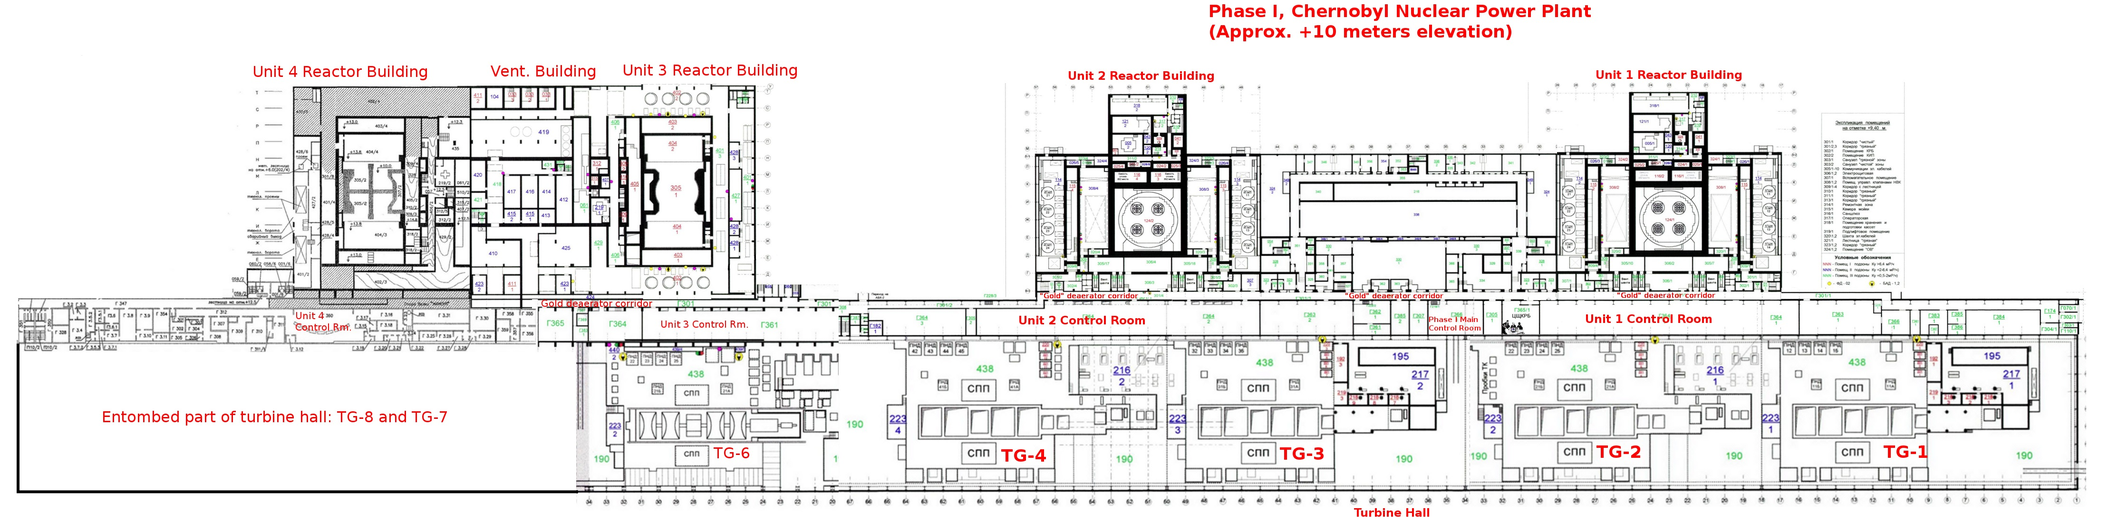
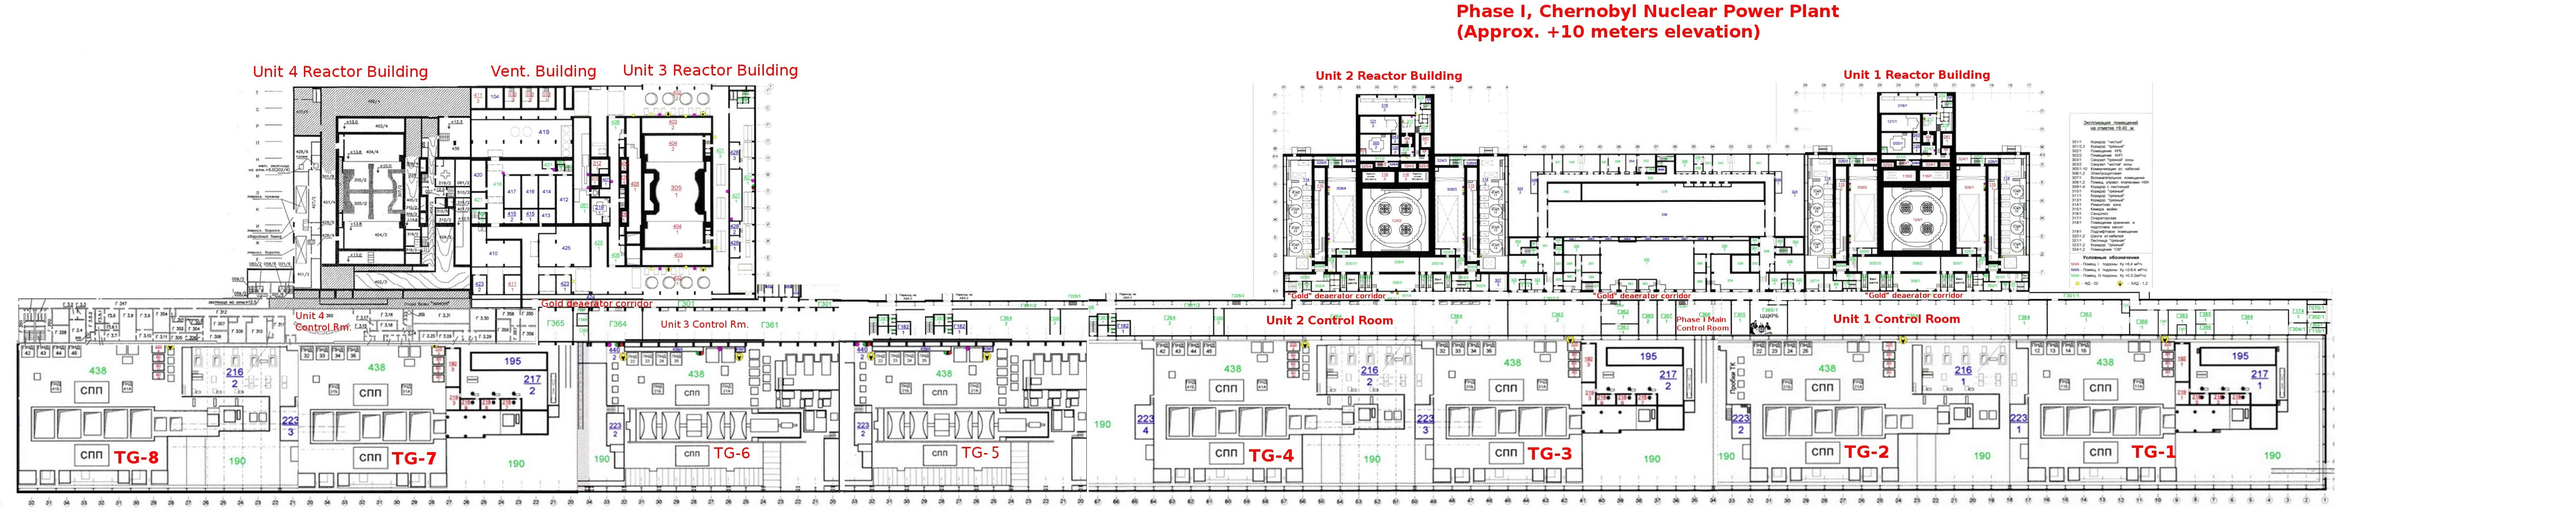
Added turbine 4 to blue print
Also added steam pipes and electricity pipes for aesthetics, fixed a lot
of things too

Changed region(s): [[0.0, 0.1219, 0.9955, 0.9749], [0.56, 0.0, 0.7466, 0.0914]]

diff --git a/Nuclear/src/objects/Pipe.java b/Nuclear/src/objects/Pipe.java
@@ -1,0 +1,99 @@
+package objects;
+
+import java.awt.Color;
+import java.awt.Graphics2D;
+import java.awt.Rectangle;
+import java.awt.Shape;
+import java.awt.event.MouseEvent;
+import java.awt.geom.AffineTransform;
+
+import logic.Integrator;
+
+public class Pipe extends GameObject{
+	int speed=5;
+	int increment_time = 25;
+	int position = 0;
+	public static enum Orientation{
+		VERTICAL, HORIZONTAL //This will dicate whether to draw the pipe horizontally or vertically (instead of entering points)
+	}
+	Color color = new Color(255, 255, 0);
+	Orientation or;
+	private void count(){//This method updates the particle position on the pipe
+		position+=speed;
+		if(speed > 0){
+			if(position > 20)position = 0;
+		}
+		if(speed < 0){
+			if(position < -20)position = 0;
+		}
+	}
+	int width;
+	long lastTime = 0;
+	public Pipe(int x1, int y1, Orientation or, int length, int width){
+		if(length < 0){
+			length *= -1;
+			speed *= -1;
+		}
+		x = x1;
+		y = y1;
+		if(or == Orientation.VERTICAL){//Generates x and y depending on orientation
+			xSize = width;
+			ySize = length;
+		}else if(or == Orientation.HORIZONTAL){
+			xSize = length;
+			ySize = width;
+		}
+		this.or = or;
+		this.width = width;
+		bounds = new Rectangle(x, y, xSize, ySize);//Creates rectangle
+		lastTime = System.currentTimeMillis();
+	}
+	
+	public void drawObj(Graphics2D g){
+		Color oldColor = g.getColor();
+		g.setColor(Color.black);
+		g.fillRect(x + Integrator.int_last_x_offset, y + Integrator.int_last_y_offset, xSize, ySize);
+		g.setColor(color);
+		if(or == Orientation.HORIZONTAL){
+			for(int i = x; i + position < x + xSize; i += width * 2){
+				if(i + position < x)continue;//prevents particles from being drawn outside the pipe
+				if(i + position > x + xSize)continue;
+				g.fillRect(i + position + Integrator.int_last_x_offset, y + Integrator.int_last_y_offset, width, width);
+			}
+		}
+		if(or == Orientation.VERTICAL){
+			for(int i = y; i + position < y + ySize; i += width * 2){
+				if(i + position < y)continue;//prevents particles from being drawn outside the pipe
+				if(i + position > y + ySize)continue;
+				g.fillRect(x + Integrator.int_last_x_offset, i + position + Integrator.int_last_y_offset, width, width);
+			}
+		}
+		
+		if(lastTime + increment_time < System.currentTimeMillis()){
+			lastTime = System.currentTimeMillis();
+			count();
+		}
+		g.setColor(oldColor);
+	}
+	public void setColor(Color color){
+		this.color = color;
+	}
+	public void mouseClicked(MouseEvent e) {
+		//Do not do physics in mouseClicked, do it in update
+		bounds.setLocation(x+Integrator.int_last_x_offset, y + Integrator.int_last_y_offset);
+		AffineTransform g = new AffineTransform();//This code makes sure that the object was clicked
+		g.translate(Integrator.x/2.0, Integrator.y/2.0);
+		g.scale(Integrator.scale, Integrator.scale);
+		g.translate(-Integrator.x/2.0, -Integrator.y/2.0);
+		Shape temp = g.createTransformedShape(bounds);
+		if(temp.contains((e.getX()), (e.getY()))){
+			//Clicked
+		}
+	}
+	public void setTime(int time){//Sets the amount of time it takes particles to move
+		increment_time = time;
+	}
+	public void setSpeed(int speed){//Sets how far each particle travels when it moves
+		this.speed = speed;
+	}
+}

diff --git a/Nuclear/src/logic/Integrator.java b/Nuclear/src/logic/Integrator.java
@@ -18,6 +18,8 @@ import graphics.*;
 import main.Main;
 import objects.ControlRodBundle;
 import objects.GameObject;
+import objects.Pipe;
+import objects.Pipe.Orientation;
 import objects.Plant;
 import objects.PowerProduction;
 import objects.Reactor;
@@ -89,20 +91,44 @@ public class Integrator {
 		Plant plant = new Plant("res/chernobyl.jpg");//Creates a plant
 		Reactor reactor4 = new Reactor(705, 240, 150, 320, "4");
 		Reactor reactor3 = new Reactor(1345, 240, 150, 320, "3");
-		Reactor reactor2 = new Reactor(2330, 195, 170, 350, "2");
-		Reactor reactor1 = new Reactor(3425, 195, 170, 350, "1");
+		Reactor reactor2 = new Reactor(2850, 195, 170, 350, "2");
+		Reactor reactor1 = new Reactor(3945, 195, 170, 350, "1");
 		reactor4.addObj(new ControlRodBundle(736, 357, 90));
 		reactor3.addObj(new ControlRodBundle(1378, 357, 90));
-		reactor2.addObj(new ControlRodBundle(2369, 418, 90));
-		reactor1.addObj(new ControlRodBundle(3465, 418, 90));
+		reactor2.addObj(new ControlRodBundle(2890, 418, 90));
+		reactor1.addObj(new ControlRodBundle(3985, 418, 90));
 		plant.addObj(reactor1);
 		plant.addObj(reactor2);
 		plant.addObj(reactor3);
 		plant.addObj(reactor4);
 		add(plant);//Adds the plant to the world array so it can be rendered
 		
-		PowerProduction powerDisplay = new PowerProduction(0, 0);
+		PowerProduction powerDisplay = new PowerProduction(10, 10);
 		add(powerDisplay);
+		
+		//PIPES BELOW
+		//Pipes are just for aesthetics, do not include them in physics
+		Pipe pipe = new Pipe(840, 560, Orientation.VERTICAL, 300, 10);
+		pipe.setColor(Color.blue);
+		add(pipe);
+		
+		Pipe pipe1 = new Pipe(715, 560, Orientation.VERTICAL, -300, 10);
+		pipe1.setColor(Color.blue);
+		add(pipe1);
+		
+		Pipe pipe2 = new Pipe(777, 937, Orientation.VERTICAL, 172, 10);
+		add(pipe2);
+		
+		Pipe pipe3 = new Pipe(200, 937, Orientation.VERTICAL, 172, 10);
+		add(pipe3);
+		
+		Pipe pipe4 = new Pipe(200, 937, Orientation.VERTICAL, 172, 10);
+		add(pipe4);
+		
+		Pipe mainElectric = new Pipe(200, 1100, Orientation.HORIZONTAL, 4500, 10);
+		add(mainElectric);
+		//PIPES ABOVE
+		
 		//Making level above
 		
 		//Making paused GUI below

diff --git a/Nuclear/src/objects/PowerProduction.java b/Nuclear/src/objects/PowerProduction.java
@@ -1,21 +1,25 @@
 package objects;
 
 import java.awt.Graphics2D;
-import java.awt.Rectangle;
 
 import graphics.UIComponent;
 import graphics.UIText;
-import logic.Integrator;
 
 public class PowerProduction extends GameObject {
 	
-	UIText power1 = new UIText(-240, -275, 325, 100);
-	UIText power2 = new UIText(power1.getX()+power1.getWidth()+15, power1.getY(), 325, 100);
-	UIText power3 = new UIText(power2.getX()+power2.getWidth()+15, power1.getY(), 325, 100);
-	UIText power4 = new UIText(power3.getX()+power3.getWidth()+15, power1.getY(), 325, 100);
-	UIText totalPower = new UIText(power4.getX()+power4.getWidth()+15, power1.getY(), 325, 100);
+	UIText power1;
+	UIText power2;
+	UIText power3;
+	UIText power4;
+	UIText totalPower;
 	
 	public PowerProduction(int x, int y) {
+		power1 = new UIText(x, y, 325, 100);//These first two values can't be negative! The top left corner is (0,0) so it will not render!
+		power2 = new UIText(power1.getX()+power1.getWidth()+15, power1.getY(), 325, 100);
+		power3 = new UIText(power2.getX()+power2.getWidth()+15, power1.getY(), 325, 100);
+		power4 = new UIText(power3.getX()+power3.getWidth()+15, power1.getY(), 325, 100);
+		totalPower = new UIText(power4.getX()+power4.getWidth()+15, power1.getY(), 325, 100);
+		
 		power1.setText("MW");
 		power2.setText("MW");
 		power3.setText("MW");
@@ -41,12 +45,12 @@ public class PowerProduction extends GameObject {
 			comp.setVisible(true);
 		}
 	}
-	
 	public void drawObj(Graphics2D g) {
 		//Do not update things in here! Only update stuff when it changes to prevent overhead
 	}
 	
 	public void update(long deltaTime) {
+		
 	}
 	
 	public void updatePower(int reactor1, int reactor2, int reactor3, int reactor4) {

diff --git a/Nuclear/src/graphics/UIText.java b/Nuclear/src/graphics/UIText.java
@@ -8,7 +8,6 @@ import java.awt.Rectangle;
 import java.awt.event.MouseAdapter;
 import java.awt.event.MouseEvent;
 
-import logic.Integrator;
 
 public class UIText extends UIComponent{
 	public UIText(int xPos, int yPos, int x1, int y1) {
@@ -33,7 +32,7 @@ public class UIText extends UIComponent{
 			}
 			@Override
 			public void mouseDragged(MouseEvent e) {
-				if(usable() && bounds.contains(e.getPoint())){
+				if(movable && usable() && bounds.contains(e.getPoint())){
 					setBounds(e.getX() - nx, e.getY() - ny);
 				}
 			}

diff --git a/Nuclear/src/graphics/UIComponent.java b/Nuclear/src/graphics/UIComponent.java
@@ -28,6 +28,7 @@ public class UIComponent {
 	protected Color textColor = Color.black; //default setting
 	protected Font font = new Font("Impact", Font.PLAIN, 96);
 	protected Rectangle bounds;
+	protected boolean movable = true;
 	public UIComponent(int xPos, int yPos, int xSize, int ySize) {
 		throw new UnsupportedOperationException();
 	}
@@ -95,5 +96,8 @@ public class UIComponent {
 	}
 	public void setTextColor(Color co) {
 		this.textColor = co;
+	}
+	public void setMovable(boolean move){
+		movable = move;
 	}
 }

diff --git a/Nuclear/src/graphics/UIButton.java b/Nuclear/src/graphics/UIButton.java
@@ -34,7 +34,7 @@ public class UIButton extends UIComponent{
 			}
 			@Override
 			public void mouseDragged(MouseEvent e) {
-				if(usable() && bounds.contains(e.getPoint())){
+				if(movable && usable() && bounds.contains(e.getPoint())){
 					setBounds(e.getX() - nx, e.getY() - ny);
 				}
 			}

diff --git a/Nuclear/src/graphics/UISlider.java b/Nuclear/src/graphics/UISlider.java
@@ -40,7 +40,7 @@ public class UISlider extends UIComponent{
 			}
 			@Override
 			public void mouseDragged(MouseEvent e) {
-				if(usable() && bounds.contains(e.getPoint())){
+				if(movable && usable() && bounds.contains(e.getPoint())){
 					setBounds(e.getX() - nx, e.getY() - ny);
 				}
 			}

diff --git a/Nuclear/src/objects/GameObject.java b/Nuclear/src/objects/GameObject.java
@@ -76,9 +76,7 @@ public class GameObject {
 		return all;
 	}
 	public ArrayList<UIComponent> getUi(){
-		ArrayList<UIComponent> all = new ArrayList<UIComponent>();
-		all.addAll(ui);
-		return all;
+		return ui;
 	}
 	public void addObj(GameObject a){
 		objects.add(a);

diff --git a/Nuclear/src/objects/Reactor.java b/Nuclear/src/objects/Reactor.java
@@ -6,7 +6,6 @@ import java.awt.Graphics2D;
 import java.awt.Rectangle;
 import java.awt.Shape;
 import java.awt.Stroke;
-import java.awt.event.KeyEvent;
 import java.awt.event.MouseEvent;
 import java.awt.geom.AffineTransform;
 
